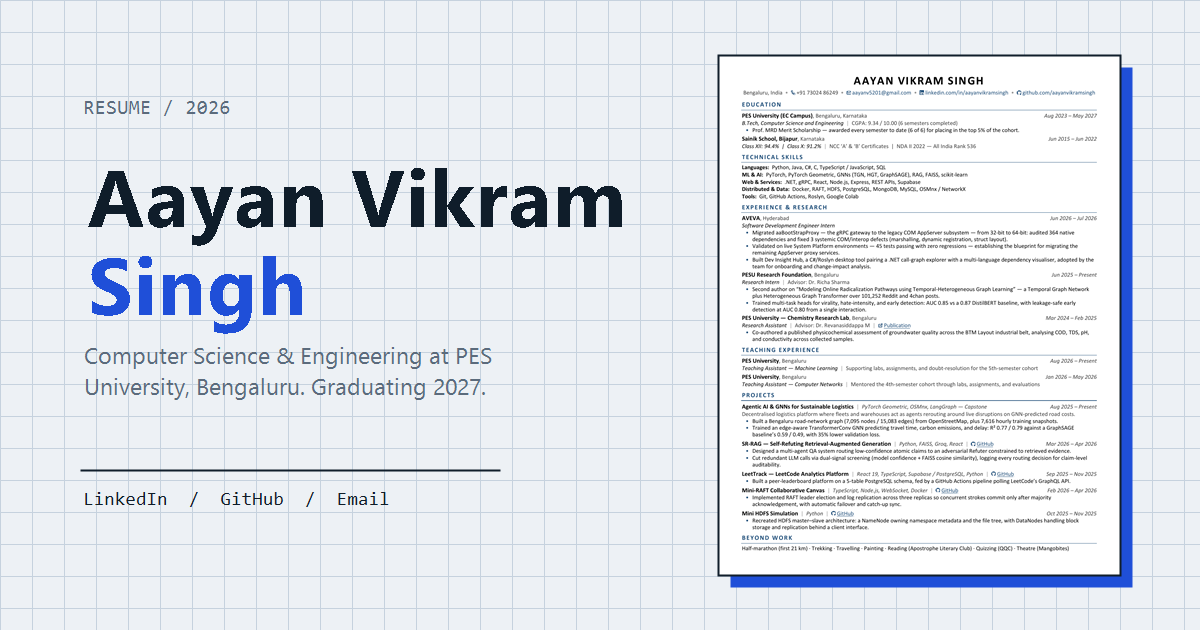
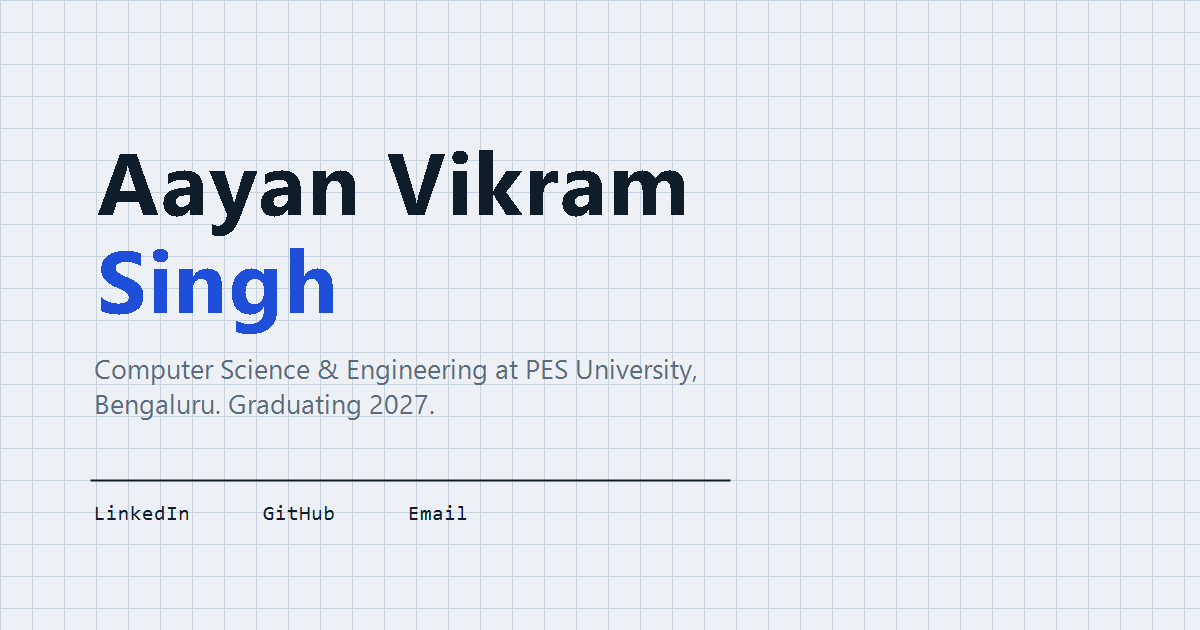
Remove inline PDF viewer from landing page
The resume should be reached by pressing through, not read on the page
itself. Drop the embedded viewer and its styles; the PDF stays one
click away behind the Read the resume button.

Rebuild preview.png to match the page - landing content only, no resume
thumbnail, so the shared card does not expose what the page hides.

Changed region(s): [[0.0617, 0.0603, 0.9558, 0.9349], [0.0617, 0.1508, 0.1233, 0.181], [0.1542, 0.1508, 0.185, 0.181]]

diff --git a/index.html b/index.html
@@ -15,7 +15,7 @@
 <meta property="og:image" content="https://aayanvikramsingh.github.io/Resume_AayanVikramSingh/preview.png">
 <meta property="og:image:width" content="1200">
 <meta property="og:image:height" content="630">
-<meta property="og:image:alt" content="First page of Aayan Vikram Singh's resume">
+<meta property="og:image:alt" content="Aayan Vikram Singh — Computer Science &amp; Engineering at PES University, Bengaluru">
 
 <meta name="twitter:card" content="summary_large_image">
 <meta name="twitter:title" content="Aayan Vikram Singh — Resume">
@@ -148,20 +148,7 @@
   .links a:hover { color: var(--accent); }
   .links a:focus-visible { outline: 3px solid var(--accent); outline-offset: 3px; }
 
-  /* Inline PDF — the page's centrepiece on desktop, hidden on small screens
-     where embedded PDF viewers are unreliable. */
-  .viewer {
-    margin-top: 3.5rem;
-    border: 1.5px solid var(--ink);
-    box-shadow: 10px 10px 0 var(--accent);
-    background: #fff;
-    height: 44rem;
-  }
-
-  .viewer object { display: block; width: 100%; height: 100%; }
-
   @media (max-width: 48rem) {
-    .viewer { display: none; }
     .wrap { padding-top: 3rem; }
   }
 
@@ -192,13 +179,6 @@
       <a href="https://github.com/aayanvikramsingh" target="_blank" rel="noreferrer">GitHub</a>
       <a href="mailto:aayanv5201@gmail.com">Email</a>
     </nav>
-
-    <div class="viewer">
-      <object data="Aayan_Vikram_Singh_Resume.pdf#toolbar=0&amp;navpanes=0" type="application/pdf">
-        <p style="padding:2rem">Your browser can't display the PDF inline.
-          <a href="Aayan_Vikram_Singh_Resume.pdf" target="_blank" rel="noreferrer">Open it directly</a>.</p>
-      </object>
-    </div>
   </main>
 </body>
 </html>
